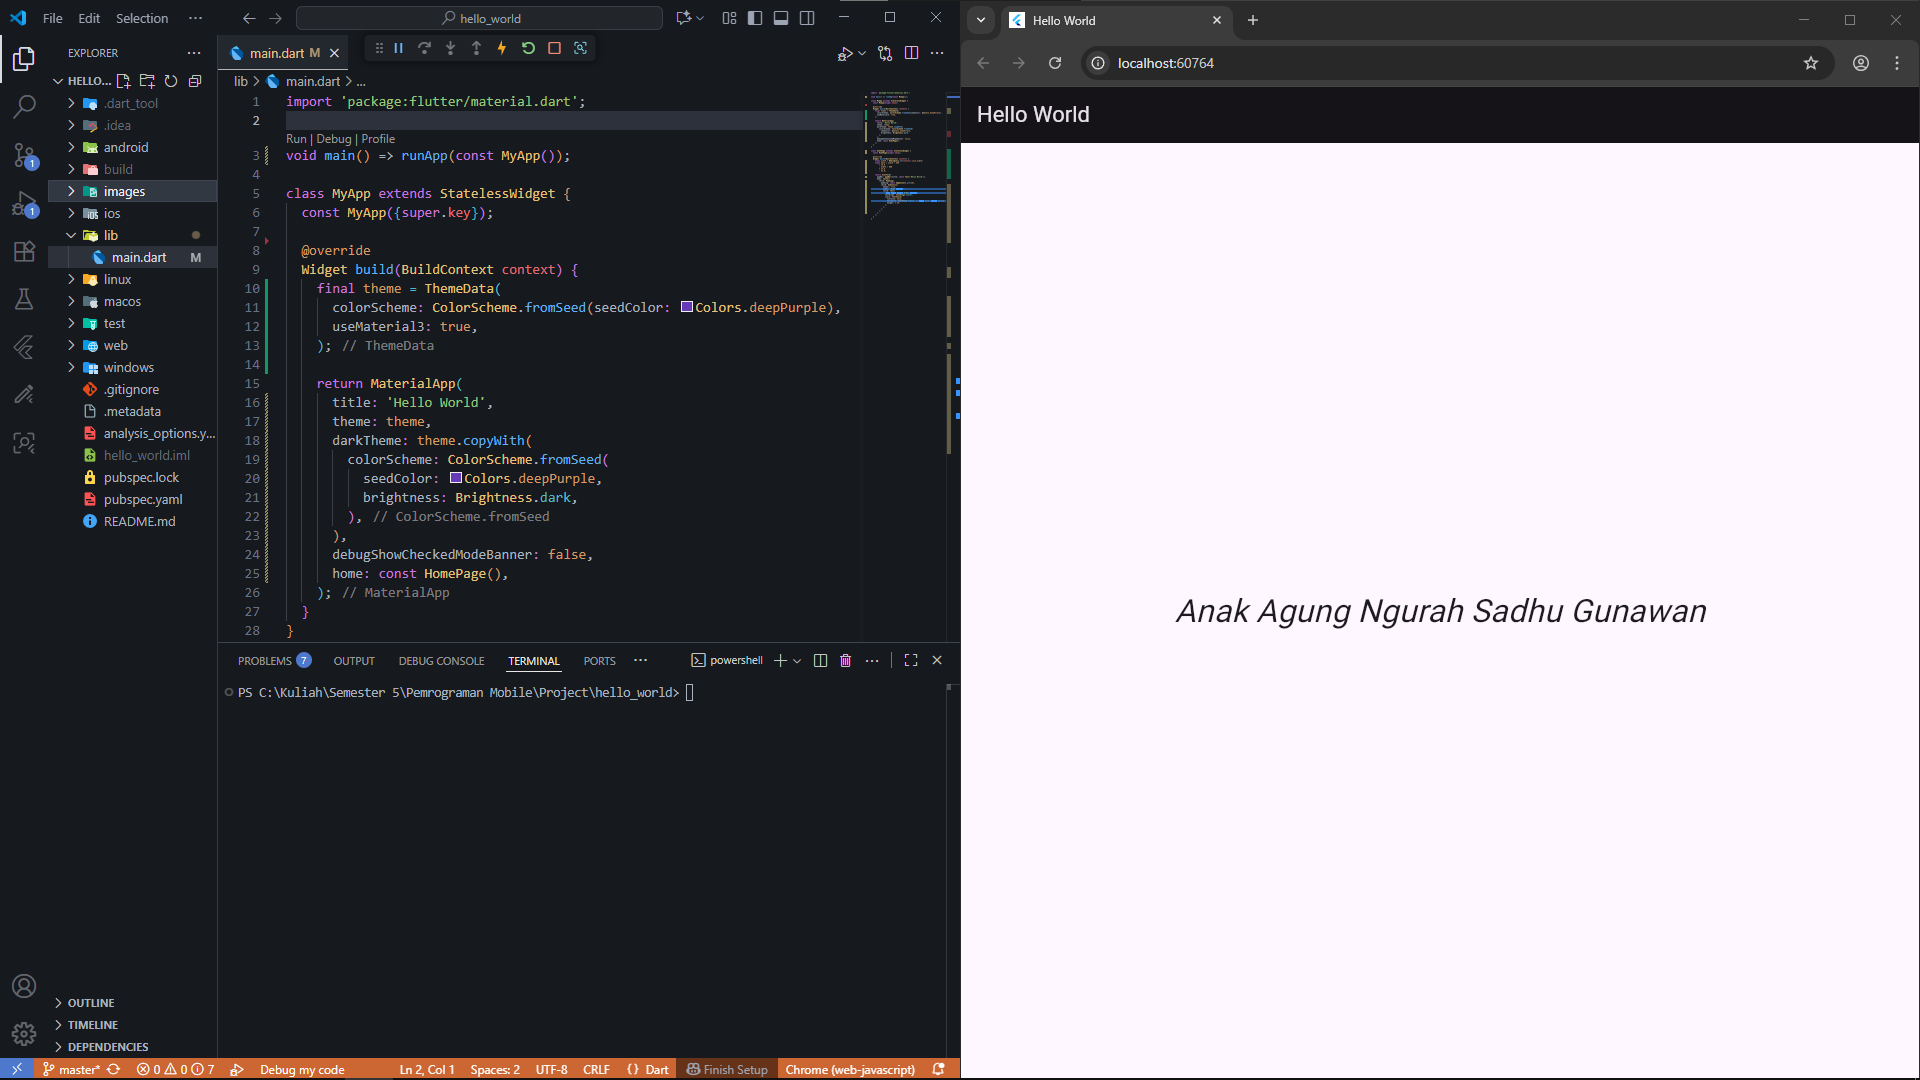
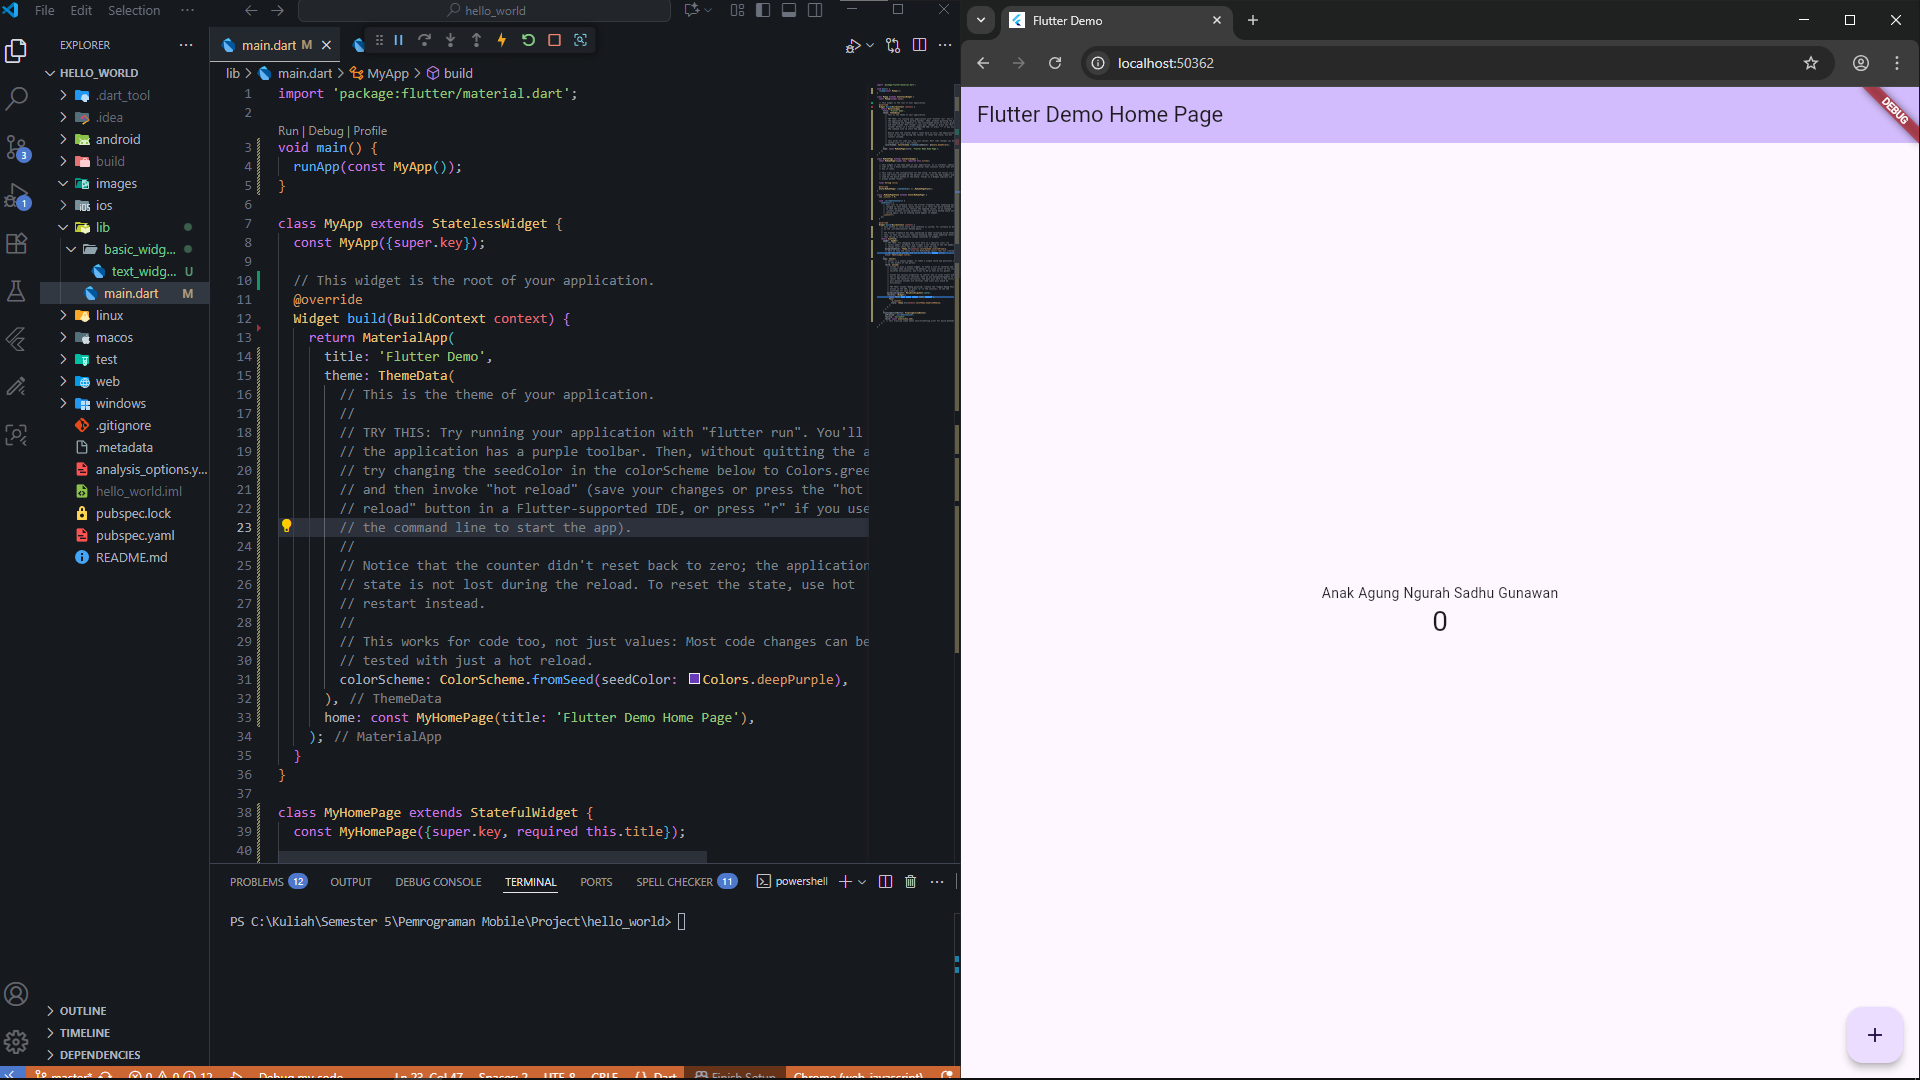
Perbaiki main.dart, tambah screenshot, dan tambahkan folder basic_widget beserta text_widget.dart

diff --git a/lib/main.dart b/lib/main.dart
@@ -1,64 +1,122 @@
 import 'package:flutter/material.dart';
 
-void main() => runApp(const MyApp());
+void main() {
+  runApp(const MyApp());
+}
 
 class MyApp extends StatelessWidget {
   const MyApp({super.key});
 
+  // This widget is the root of your application.
   @override
   Widget build(BuildContext context) {
-    final theme = ThemeData(
-      colorScheme: ColorScheme.fromSeed(seedColor: Colors.deepPurple),
-      useMaterial3: true,
-    );
-
     return MaterialApp(
-      title: 'Hello World',
-      theme: theme,
-      darkTheme: theme.copyWith(
-        colorScheme: ColorScheme.fromSeed(
-          seedColor: Colors.deepPurple,
-          brightness: Brightness.dark,
-        ),
+      title: 'Flutter Demo',
+      theme: ThemeData(
+        // This is the theme of your application.
+        //
+        // TRY THIS: Try running your application with "flutter run". You'll see
+        // the application has a purple toolbar. Then, without quitting the app,
+        // try changing the seedColor in the colorScheme below to Colors.green
+        // and then invoke "hot reload" (save your changes or press the "hot
+        // reload" button in a Flutter-supported IDE, or press "r" if you used
+        // the command line to start the app).
+        //
+        // Notice that the counter didn't reset back to zero; the application
+        // state is not lost during the reload. To reset the state, use hot
+        // restart instead.
+        //
+        // This works for code too, not just values: Most code changes can be
+        // tested with just a hot reload.
+        colorScheme: ColorScheme.fromSeed(seedColor: Colors.deepPurple),
       ),
-      debugShowCheckedModeBanner: false,
-      home: const HomePage(),
+      home: const MyHomePage(title: 'Flutter Demo Home Page'),
     );
   }
 }
 
-class HomePage extends StatelessWidget {
-  const HomePage({super.key});
+class MyHomePage extends StatefulWidget {
+  const MyHomePage({super.key, required this.title});
+
+  // This widget is the home page of your application. It is stateful, meaning
+  // that it has a State object (defined below) that contains fields that affect
+  // how it looks.
+
+  // This class is the configuration for the state. It holds the values (in this
+  // case the title) provided by the parent (in this case the App widget) and
+  // used by the build method of the State. Fields in a Widget subclass are
+  // always marked "final".
+
+  final String title;
+
+  @override
+  State<MyHomePage> createState() => _MyHomePageState();
+}
+
+class _MyHomePageState extends State<MyHomePage> {
+  int _counter = 0;
+
+  void _incrementCounter() {
+    setState(() {
+      // This call to setState tells the Flutter framework that something has
+      // changed in this State, which causes it to rerun the build method below
+      // so that the display can reflect the updated values. If we changed
+      // _counter without calling setState(), then the build method would not be
+      // called again, and so nothing would appear to happen.
+      _counter++;
+    });
+  }
 
   @override
   Widget build(BuildContext context) {
-    final width = MediaQuery.of(context).size.width;
-    final base = width < 360
-        ? 18.0
-        : width < 600
-        ? 24.0
-        : 32.0;
-
+    // This method is rerun every time setState is called, for instance as done
+    // by the _incrementCounter method above.
+    //
+    // The Flutter framework has been optimized to make rerunning build methods
+    // fast, so that you can just rebuild anything that needs updating rather
+    // than having to individually change instances of widgets.
     return Scaffold(
-      appBar: AppBar(title: const Text('Hello World')),
+      appBar: AppBar(
+        // TRY THIS: Try changing the color here to a specific color (to
+        // Colors.amber, perhaps?) and trigger a hot reload to see the AppBar
+        // change color while the other colors stay the same.
+        backgroundColor: Theme.of(context).colorScheme.inversePrimary,
+        // Here we take the value from the MyHomePage object that was created by
+        // the App.build method, and use it to set our appbar title.
+        title: Text(widget.title),
+      ),
       body: Center(
-        child: Padding(
-          padding: const EdgeInsets.all(16),
-          child: Semantics(
-            header: true,
-            label: 'Nama lengkap',
-            child: Text(
-              'Anak Agung Ngurah Sadhu Gunawan',
-              textAlign: TextAlign.center,
-              style: TextStyle(
-                fontSize: base,
-                fontStyle: FontStyle.italic, // tidak bold, dibuat miring
-                height: 1.25,
-              ),
+        // Center is a layout widget. It takes a single child and positions it
+        // in the middle of the parent.
+        child: Column(
+          // Column is also a layout widget. It takes a list of children and
+          // arranges them vertically. By default, it sizes itself to fit its
+          // children horizontally, and tries to be as tall as its parent.
+          //
+          // Column has various properties to control how it sizes itself and
+          // how it positions its children. Here we use mainAxisAlignment to
+          // center the children vertically; the main axis here is the vertical
+          // axis because Columns are vertical (the cross axis would be
+          // horizontal).
+          //
+          // TRY THIS: Invoke "debug painting" (choose the "Toggle Debug Paint"
+          // action in the IDE, or press "p" in the console), to see the
+          // wireframe for each widget.
+          mainAxisAlignment: MainAxisAlignment.center,
+          children: <Widget>[
+            const Text('Anak Agung Ngurah Sadhu Gunawan'),
+            Text(
+              '$_counter',
+              style: Theme.of(context).textTheme.headlineMedium,
             ),
-          ),
+          ],
         ),
       ),
+      floatingActionButton: FloatingActionButton(
+        onPressed: _incrementCounter,
+        tooltip: 'Increment',
+        child: const Icon(Icons.add),
+      ), // This trailing comma makes auto-formatting nicer for build methods.
     );
   }
 }

diff --git a/lib/basic_widget/text_widget.dart b/lib/basic_widget/text_widget.dart
@@ -1,0 +1,14 @@
+import 'package:flutter/material.dart';
+
+class MyTextWidget extends StatelessWidget {
+  const MyTextWidget({Key? key}) : super(key: key);
+
+  @override
+  Widget build(BuildContext context) {
+    return const Text(
+      "Nama saya A. A. Ngurah Sadhu Gunawan, sedang belajar Pemrograman Mobile",
+      style: TextStyle(color: Colors.red, fontSize: 14),
+      textAlign: TextAlign.center,
+    );
+  }
+}
